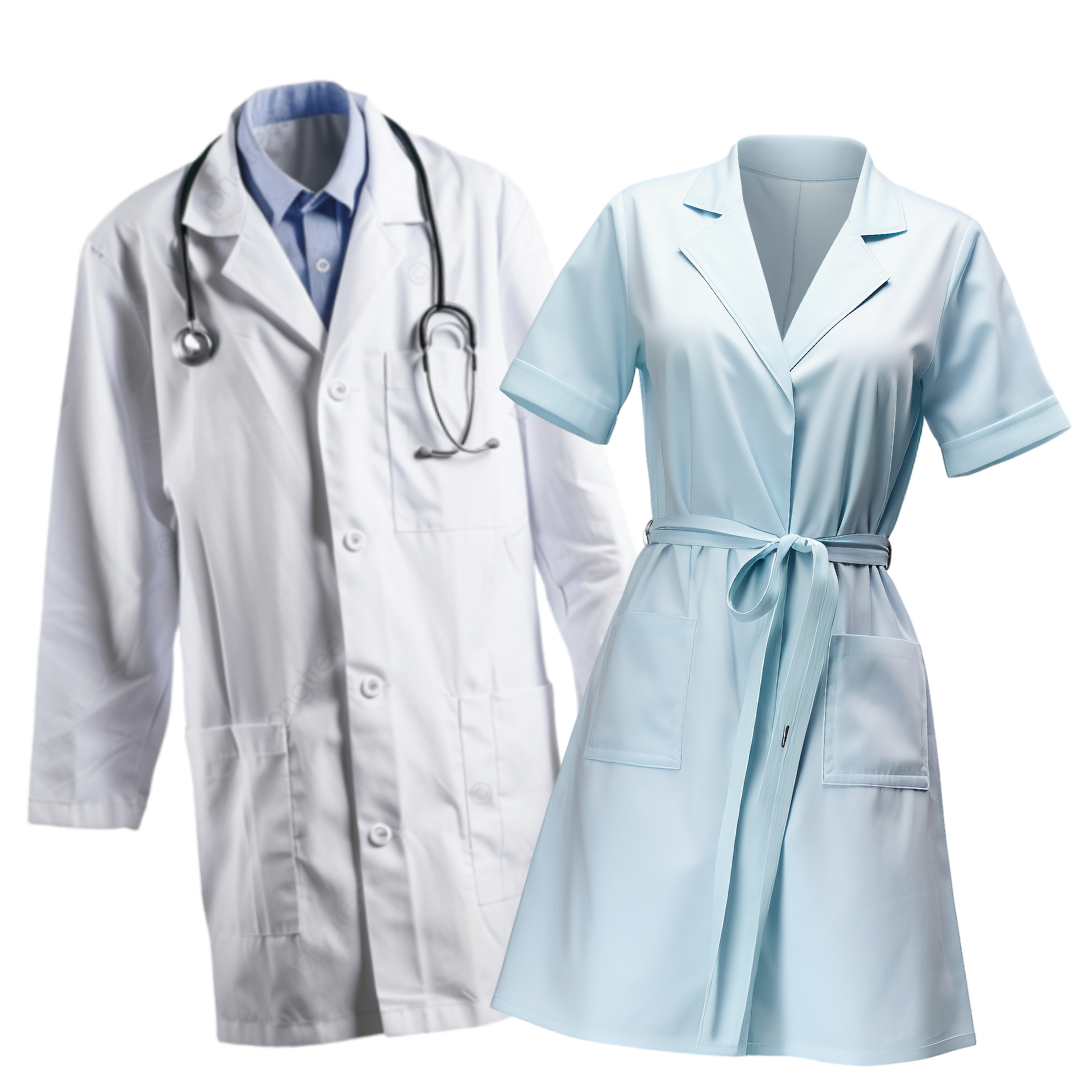
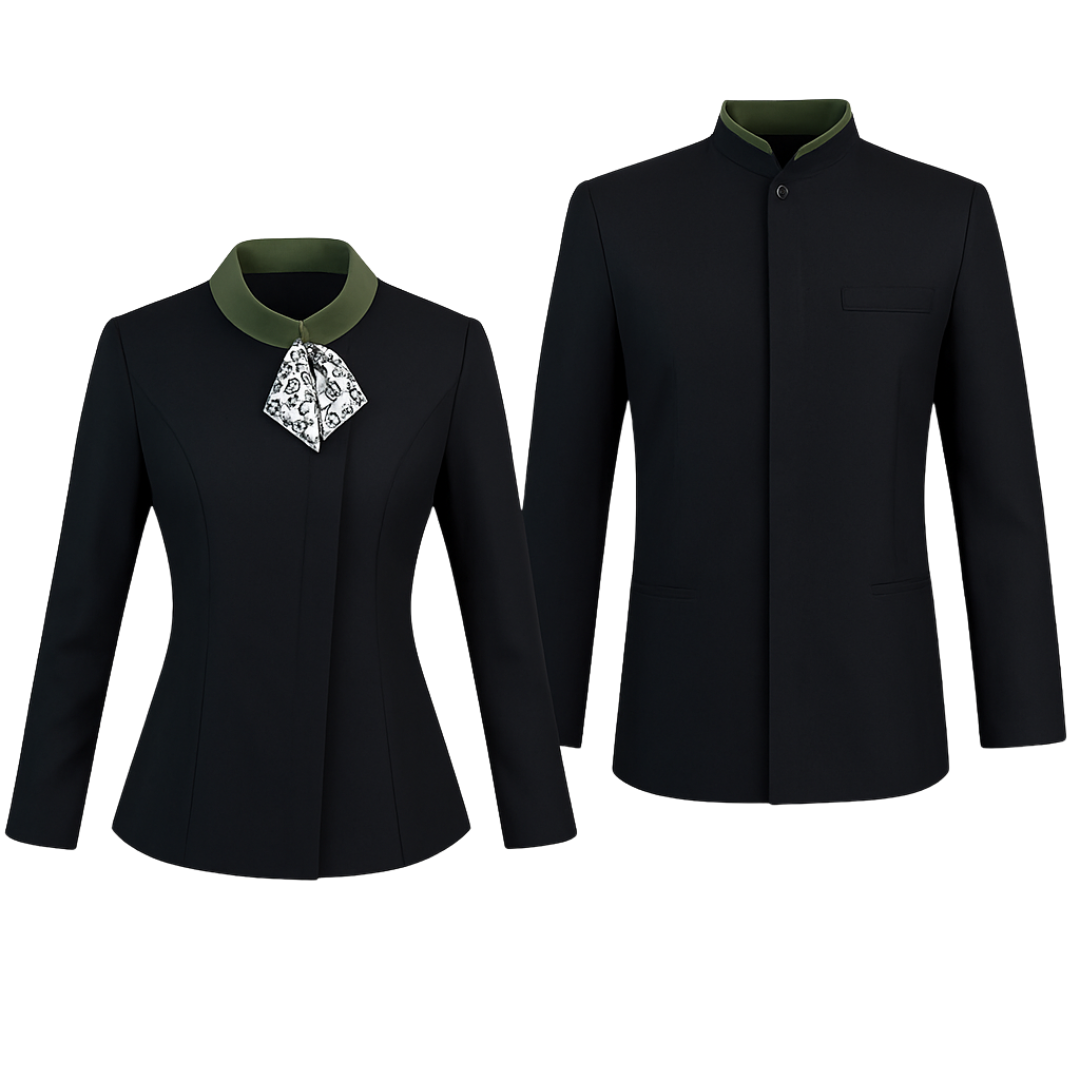
Final 1.0

diff --git a/index.html b/index.html
@@ -196,10 +196,7 @@
           </p>
           <p><em>"Gaya busana mempesona untuk setiap penampilan Anda."</em></p>
           <div class="btn-box">
-            <a href="#" class="btn1">
-              More...
-            </a>
-            <a href="#" class="btn2">
+            <a href="#faq" class="btn2">
               Kontak
             </a>
           </div>
@@ -226,7 +223,7 @@
       </div>
       <div class="produk_info">
         <h5 class="produk_nama">Kaos</h5>
-        <p class="produk_harga">Mulai Rp. 50.000</p>
+        <p class="produk_harga">Mulai Rp. 65.000</p>
       </div>
     </div>
 
@@ -238,7 +235,7 @@
       </div>
       <div class="produk_info">
         <h5 class="produk_nama">Kemeja</h5>
-        <p class="produk_harga">Mulai Rp. 50.000</p>
+        <p class="produk_harga">Mulai Rp. 65.000</p>
       </div>
     </div>
 
@@ -250,7 +247,7 @@
       </div>
       <div class="produk_info">
         <h5 class="produk_nama">Polo</h5>
-        <p class="produk_harga">Mulai Rp. 50.000</p>
+        <p class="produk_harga">Mulai Rp. 65.000</p>
       </div>
     </div>
 
@@ -262,7 +259,7 @@
       </div>
       <div class="produk_info">
         <h5 class="produk_nama">Seragam</h5>
-        <p class="produk_harga">Mulai Rp. 50.000</p>
+        <p class="produk_harga">Mulai Rp. 150.000</p>
       </div>
     </div>
 
@@ -273,8 +270,8 @@
         <a href="#contact" class="quick_btn">Pesan Sekarang</a>
       </div>
       <div class="produk_info">
-        <h5 class="produk_nama">Medis</h5>
-        <p class="produk_harga">Mulai Rp. 50.000</p>
+        <h5 class="produk_nama">Seragam hotel</h5>
+        <p class="produk_harga">Mulai Rp. 250.000</p>
       </div>
     </div>
 
@@ -286,7 +283,7 @@
       </div>
       <div class="produk_info">
         <h5 class="produk_nama">Blouse & Dress</h5>
-        <p class="produk_harga">Mulai Rp. 50.000</p>
+        <p class="produk_harga">Mulai Rp. 80.000</p>
       </div>
     </div>
 
@@ -298,7 +295,7 @@
       </div>
       <div class="produk_info">
         <h5 class="produk_nama">Aksesoris</h5>
-        <p class="produk_harga">Mulai Rp. 50.000</p>
+        <p class="produk_harga">Mulai Rp. 10.000</p>
       </div>
     </div>
 
@@ -310,13 +307,13 @@
       </div>
       <div class="produk_info">
         <h5 class="produk_nama">Jenis Lain</h5>
-        <p class="produk_harga">Konsultasikan Sekarang</p>
+        <p class="produk_harga">Mulai Rp. 50.000</p>
       </div>
     </div>
   </div>
   <div class="layanan_keterangan">
       <p><strong>
-        Anda dapat memesan dengan jumlah minimal 10 pcs hingga jumlah maksimal berapapun dengan harga mulai dari Rp. 50,000*
+        Anda dapat memesan dengan jumlah minimal 50 pcs hingga jumlah maksimal berapapun dengan harga mulai dari Rp. 50,000*
       </strong></p>
       <a href="#faq" class="btn-layanan">Kontak Kami Sekarang!</a>
     </div>
@@ -397,7 +394,7 @@
         <div class="col-lg-7 col-md-6 px-0">
           <div class="map_container">
             <div class="map-responsive">
-              <iframe src="https://www.google.com/maps/embed?pb=!1m18!1m12!1m3!1d5091.3682803745205!2d115.11209167606457!3d-8.53022358643028!2m3!1f0!2f0!3f0!3m2!1i1024!2i768!4f13.1!3m3!1m2!1s0x2dd23a8982996c77%3A0x3858e4b883708df6!2sThe%20Royal%20Griya%20Loka!5e1!3m2!1sen!2sid!4v1748974074345!5m2!1sen!2sid" width="600" height="450" style="border:0;" allowfullscreen="" loading="lazy" referrerpolicy="no-referrer-when-downgrade" width="600" height="300" frameborder="0" style="border:0; width: 100%; height:100%" allowfullscreen></iframe>
+              <iframe src="https://www.google.com/maps/embed?pb=!1m18!1m12!1m3!1d5091.059688402788!2d115.10084429999999!3d-8.553345599999998!2m3!1f0!2f0!3f0!3m2!1i1024!2i768!4f13.1!3m3!1m2!1s0x2dd23b00749adc8b%3A0x403db2b5fd1a41f8!2sIsvara%20Butik!5e1!3m2!1sid!2sid!4v1750816675559!5m2!1sid!2sid" width="600" height="450" style="border:0;" allowfullscreen="" loading="lazy" referrerpolicy="no-referrer-when-downgrade" width="600" height="300" frameborder="0" style="border:0; width: 100%; height:100%" allowfullscreen></iframe>
             </div>
           </div>
         </div>
@@ -494,7 +491,7 @@
             <div class="info_link-box">
               <a href="">
                 <i class="fa fa-map-marker" aria-hidden="true"></i>
-                <span> Jl. Raya Denpasar- Gilimanuk No.45 (Bali)</span>
+                <span>  The Royal Griya Loka Blok Q 15,jl raya Gilimanuk Tabanan Bali (Bali)</span>
               </a>
               <a href="">
                 <i class="fa fa-map-marker" aria-hidden="true"></i>

diff --git a/css/style.css b/css/style.css
@@ -2021,6 +2021,20 @@ a:focus {
   }
 }
 
+@media only screen and (max-width: 768px) {
+  .gallery_wrapper img {
+    height: auto !important;
+    max-height: 250px !important;
+    flex: 0 0 70% !important;
+    object-fit: cover !important;
+  }
+
+  .gallery_wrapper {
+    gap: 10px !important;
+    padding: 10px !important;
+  }
+}
+
 
 /* end footer section*/
 /*# sourceMappingURL=style.css.map */
